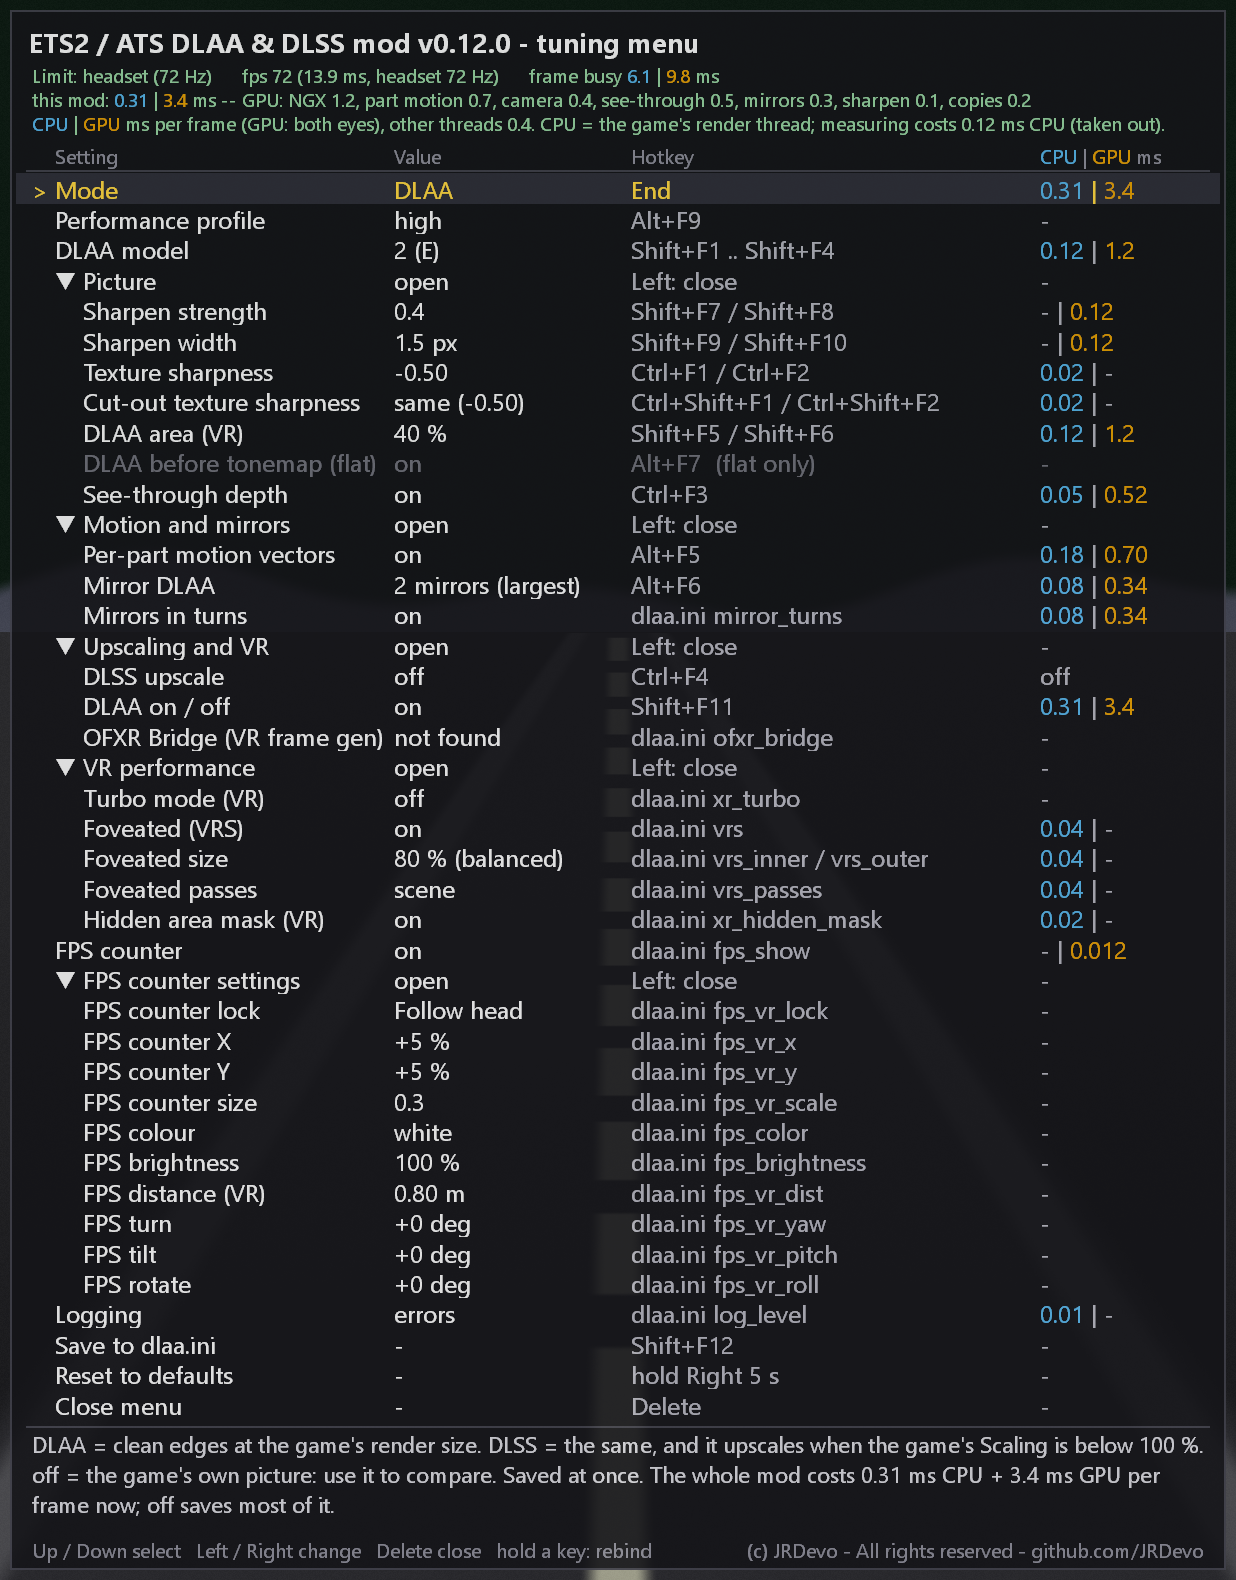
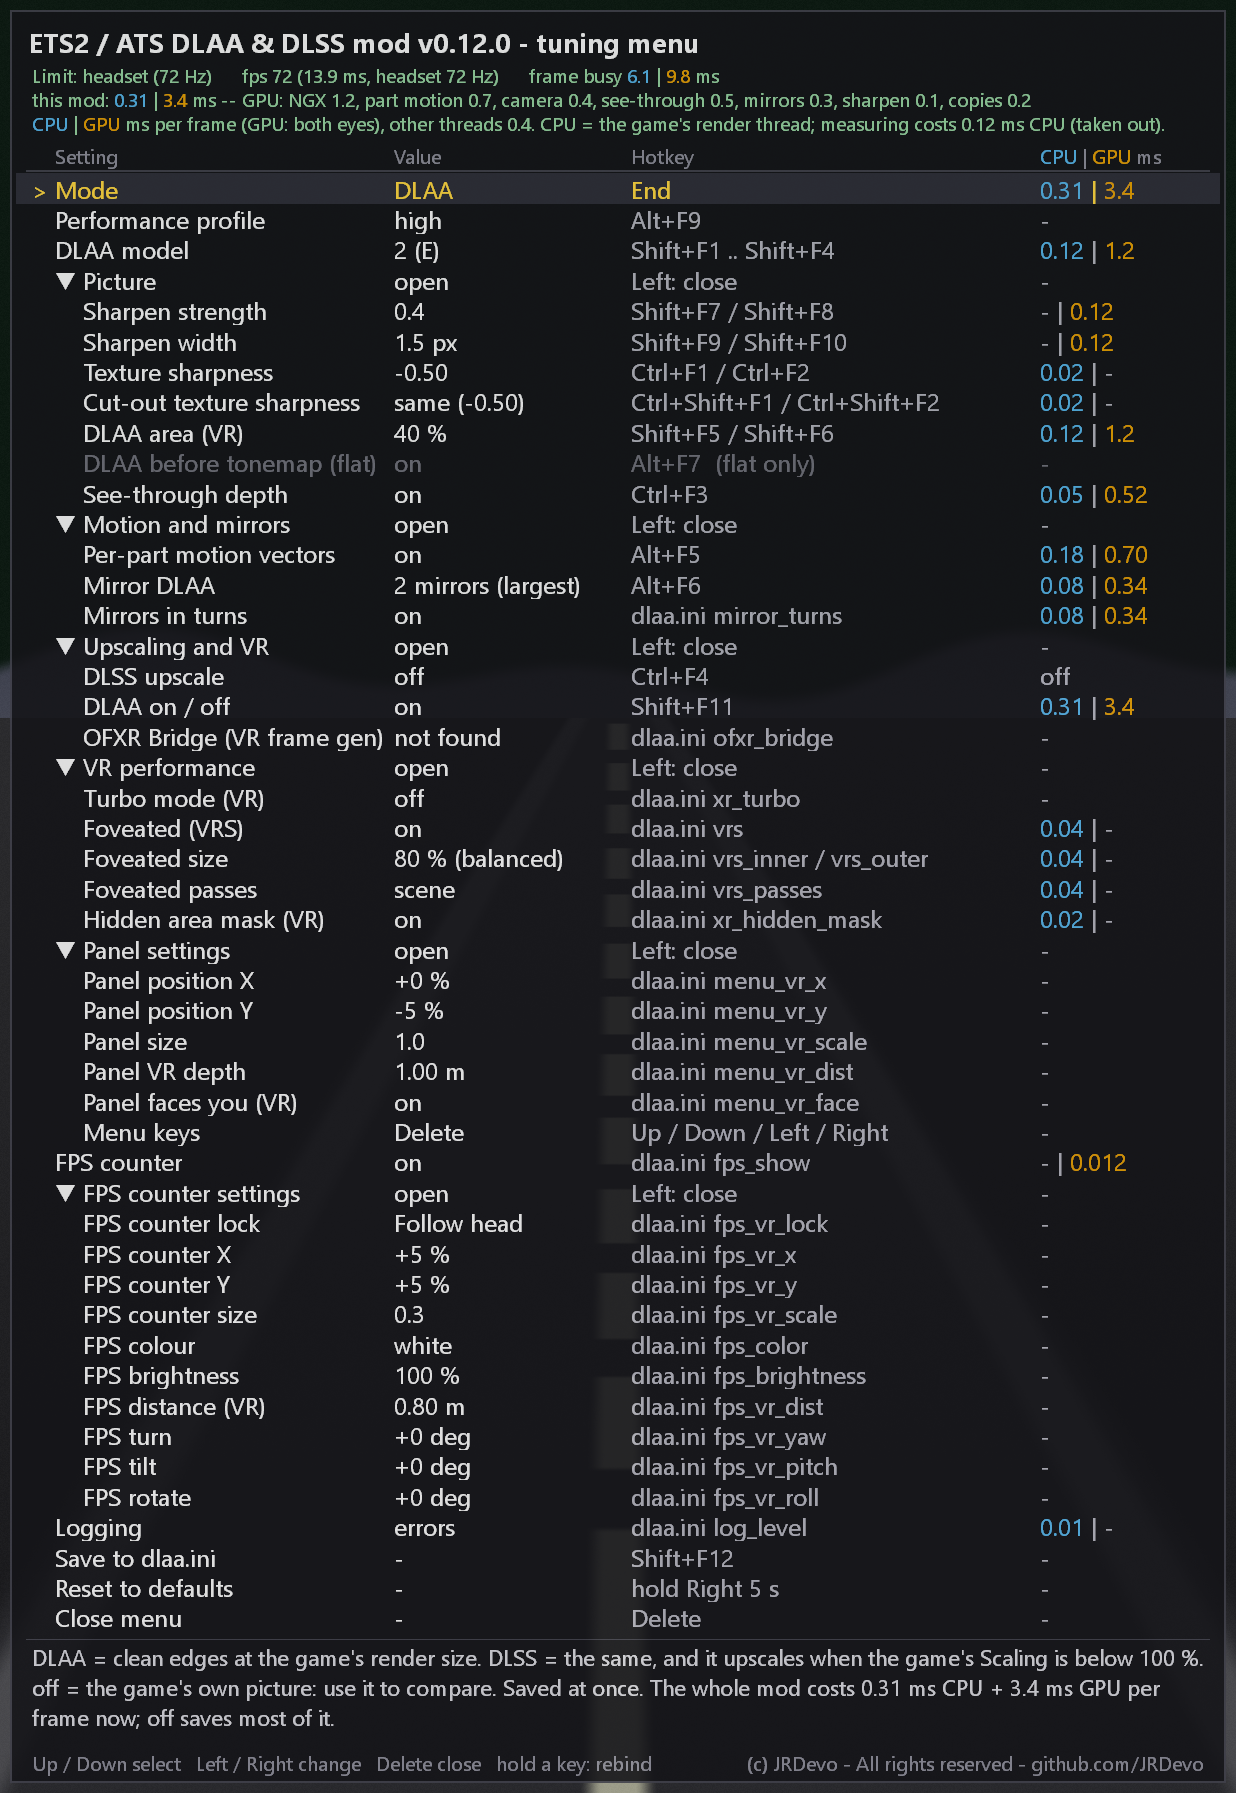
README pictures: add the missing "Panel settings" group to the tuning menu shots
tests/menu_shot.cpp (the README picture tool) had no Panel settings rows, so
tuning-menu-all-open.png skipped the group (panel position X / Y, size, VR depth,
faces you, menu keys) and the closed shots did not list it. The game's menu was
always fine. Pictures regenerated in docs/images.

diff --git a/tests/menu_shot.cpp b/tests/menu_shot.cpp
@@ -80,6 +80,13 @@ static const E kRows[] = {
     { G_VRP, false, L"Foveated size", L"80 % (balanced)", L"dlaa.ini vrs_inner / vrs_outer", L"<c>0.04</> | -", false, nullptr, nullptr },
     { G_VRP, false, L"Foveated passes", L"scene", L"dlaa.ini vrs_passes", L"<c>0.04</> | -", false, nullptr, nullptr },
     { G_VRP, false, L"Hidden area mask (VR)", L"on", L"dlaa.ini xr_hidden_mask", L"<c>0.02</> | -", false, nullptr, nullptr },
+    { G_PANEL, true, L"Panel settings", L"", L"", L"", false, nullptr, nullptr },
+    { G_PANEL, false, L"Panel position X", L"+0 %", L"dlaa.ini menu_vr_x", L"", false, nullptr, nullptr },
+    { G_PANEL, false, L"Panel position Y", L"-5 %", L"dlaa.ini menu_vr_y", L"", false, nullptr, nullptr },
+    { G_PANEL, false, L"Panel size", L"1.0", L"dlaa.ini menu_vr_scale", L"", false, nullptr, nullptr },
+    { G_PANEL, false, L"Panel VR depth", L"1.00 m", L"dlaa.ini menu_vr_dist", L"", false, nullptr, nullptr },
+    { G_PANEL, false, L"Panel faces you (VR)", L"on", L"dlaa.ini menu_vr_face", L"", false, nullptr, nullptr },
+    { G_PANEL, false, L"Menu keys", L"Delete", L"Up / Down / Left / Right", L"", false, nullptr, nullptr },
     { -1, false, L"FPS counter", L"on", L"dlaa.ini fps_show", L"- | <g>0.012</>", false, nullptr, nullptr },
     { G_FPSG, true, L"FPS counter settings", L"", L"", L"", false, nullptr, nullptr },
     { G_FPSG, false, L"FPS counter lock", L"Follow head", L"dlaa.ini fps_vr_lock", L"", false, nullptr, nullptr },
